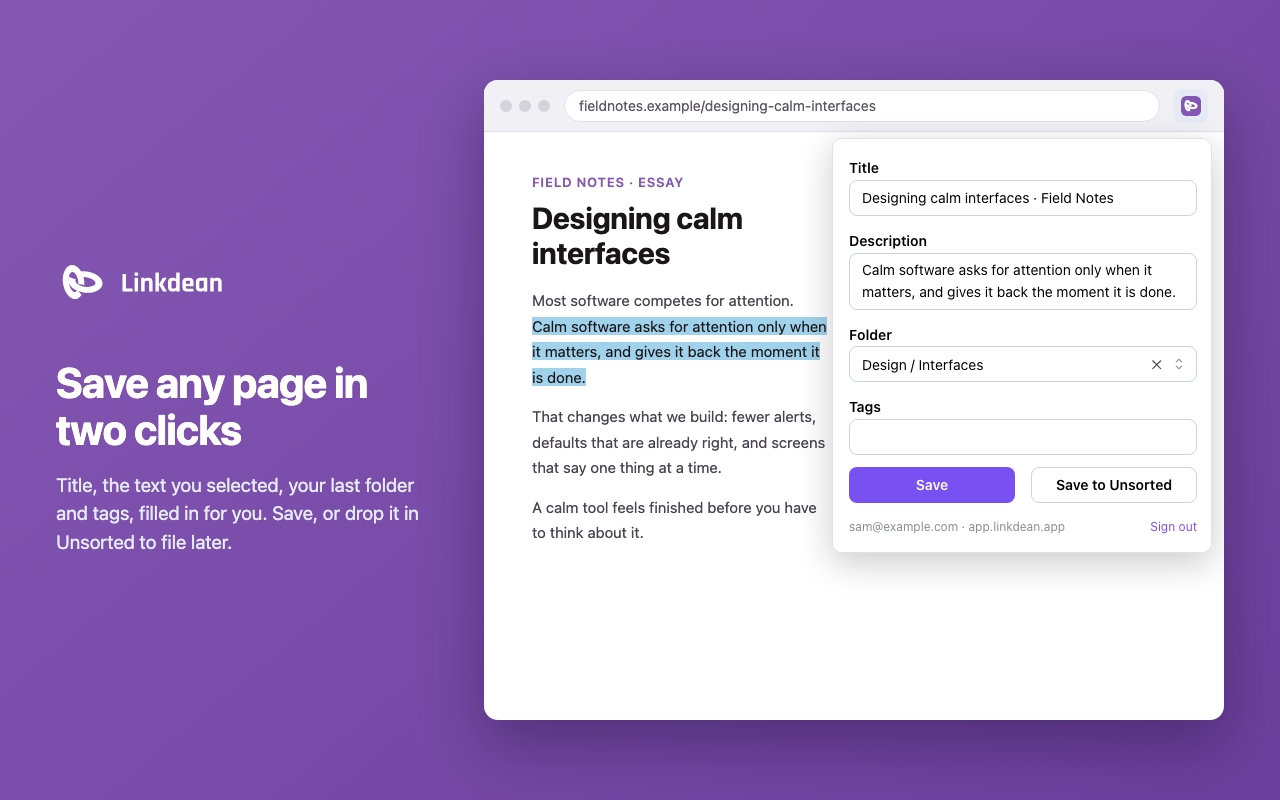
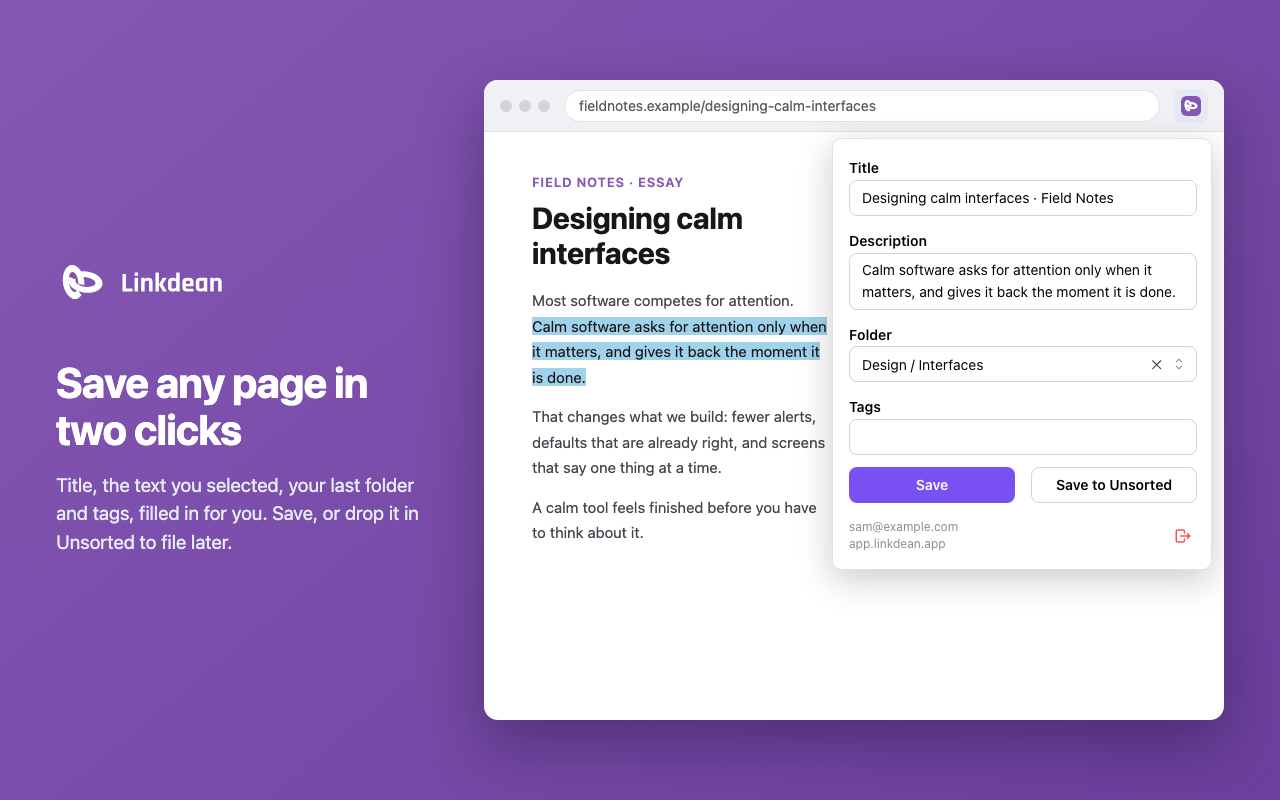
Move Categories under Shared; tidy the extension popup footer (#94)
* Move Categories under Shared in the sidebar

* Stack the extension footer's account details and make sign out a red icon button

* Widen the gap before the extension's sign-out button

* Re-render the store screenshots with the new popup footer

---------

Changed region(s): [[0.6562, 0.6562, 0.9375, 0.7188]]

diff --git a/apps/extension/src/entrypoints/popup/App.tsx b/apps/extension/src/entrypoints/popup/App.tsx
@@ -1,5 +1,6 @@
 import { useEffect, useState, type ReactElement } from 'react'
-import { Anchor, Box, Group, Text } from '@mantine/core'
+import { ActionIcon, Box, Group, Stack, Text, Tooltip } from '@mantine/core'
+import { IconLogout } from '@tabler/icons-react'
 import { revokeOwnKey } from '@/lib/api'
 import { sessionItem, type Session } from '@/lib/session'
 import { SaveView } from './SaveView'
@@ -25,13 +26,28 @@ export function App(): ReactElement | null {
       {session ? (
         <>
           <SaveView session={session} />
-          <Group justify="space-between" mt="md" gap="xs" wrap="nowrap">
-            <Text size="xs" c="dimmed" truncate>
-              {session.email} · {new URL(session.instance).host}
-            </Text>
-            <Anchor component="button" size="xs" onClick={() => void signOut(session)}>
-              Sign out
-            </Anchor>
+          <Group justify="space-between" mt="md" gap="md" wrap="nowrap">
+            <Stack gap={0} miw={0}>
+              {[session.email, new URL(session.instance).host].map((line) => (
+                <Tooltip
+                  key={line}
+                  label={line}
+                  openDelay={400}
+                  multiline
+                  maw={340}
+                  style={{ overflowWrap: 'anywhere' }}
+                >
+                  <Text size="xs" c="dimmed" truncate>
+                    {line}
+                  </Text>
+                </Tooltip>
+              ))}
+            </Stack>
+            <Tooltip label="Sign out">
+              <ActionIcon variant="subtle" color="red.6" aria-label="Sign out" onClick={() => void signOut(session)}>
+                <IconLogout size={18} />
+              </ActionIcon>
+            </Tooltip>
           </Group>
         </>
       ) : (

diff --git a/apps/web/src/pages/app-shell/AppSidebar.tsx b/apps/web/src/pages/app-shell/AppSidebar.tsx
@@ -104,6 +104,15 @@ export function AppSidebar({ pathname, search, vaultUnlocked, isAdmin }: Props):
             active={pathname === '/shared'}
             onClick={closeNav}
           />
+          <NavLink
+            component={Link}
+            activeOptions={EXACT}
+            to="/categories"
+            label="Categories"
+            leftSection={<IconFolders {...iconProps} />}
+            active={pathname === '/categories'}
+            onClick={closeNav}
+          />
           {vaultUnlocked ? (
             <NavLink
               component={Link}
@@ -169,15 +178,6 @@ export function AppSidebar({ pathname, search, vaultUnlocked, isAdmin }: Props):
 
       <AppShell.Section py="sm" className={classes.footer}>
         <Stack gap={2}>
-          <NavLink
-            component={Link}
-            activeOptions={EXACT}
-            to="/categories"
-            label="Categories"
-            leftSection={<IconFolders {...iconProps} />}
-            active={pathname === '/categories'}
-            onClick={closeNav}
-          />
           <NavLink
             component={Link}
             activeOptions={EXACT}

diff --git a/docs/FEATURES.md b/docs/FEATURES.md
@@ -30,7 +30,7 @@ What Linkdean can do today. For planned work see [ROADMAP.md](./ROADMAP.md). For
 - Broken links page (`/broken-links`, sidebar → Library health), where each link can be opened, rechecked or removed (Remove bookmark moves it to Deleted items); red badges on confirmed dead / unreachable cards
 - Duplicate / fork a category (copy folder + bookmarks)
 - Reading list (unread), favorites, and pin-to-top; opening a link can mark unread as read
-- Categories page (`/categories`, sidebar footer): the full tree with a name filter beside the chosen category's details, path, badges, subcategories and every action (open in library, edit, new subcategory, share, duplicate, move to vault, likes & comments, delete); `?id=` opens one, and phones show the tree or the details one at a time
+- Categories page (`/categories`, in the sidebar under Shared): the full tree with a name filter beside the chosen category's details, path, badges, subcategories and every action (open in library, edit, new subcategory, share, duplicate, move to vault, likes & comments, delete); `?id=` opens one, and phones show the tree or the details one at a time
 - Command palette (mod+K, from the header search field): add, search, jump category
 - `/` focuses the library search field on the Library and Vaults pages
 
